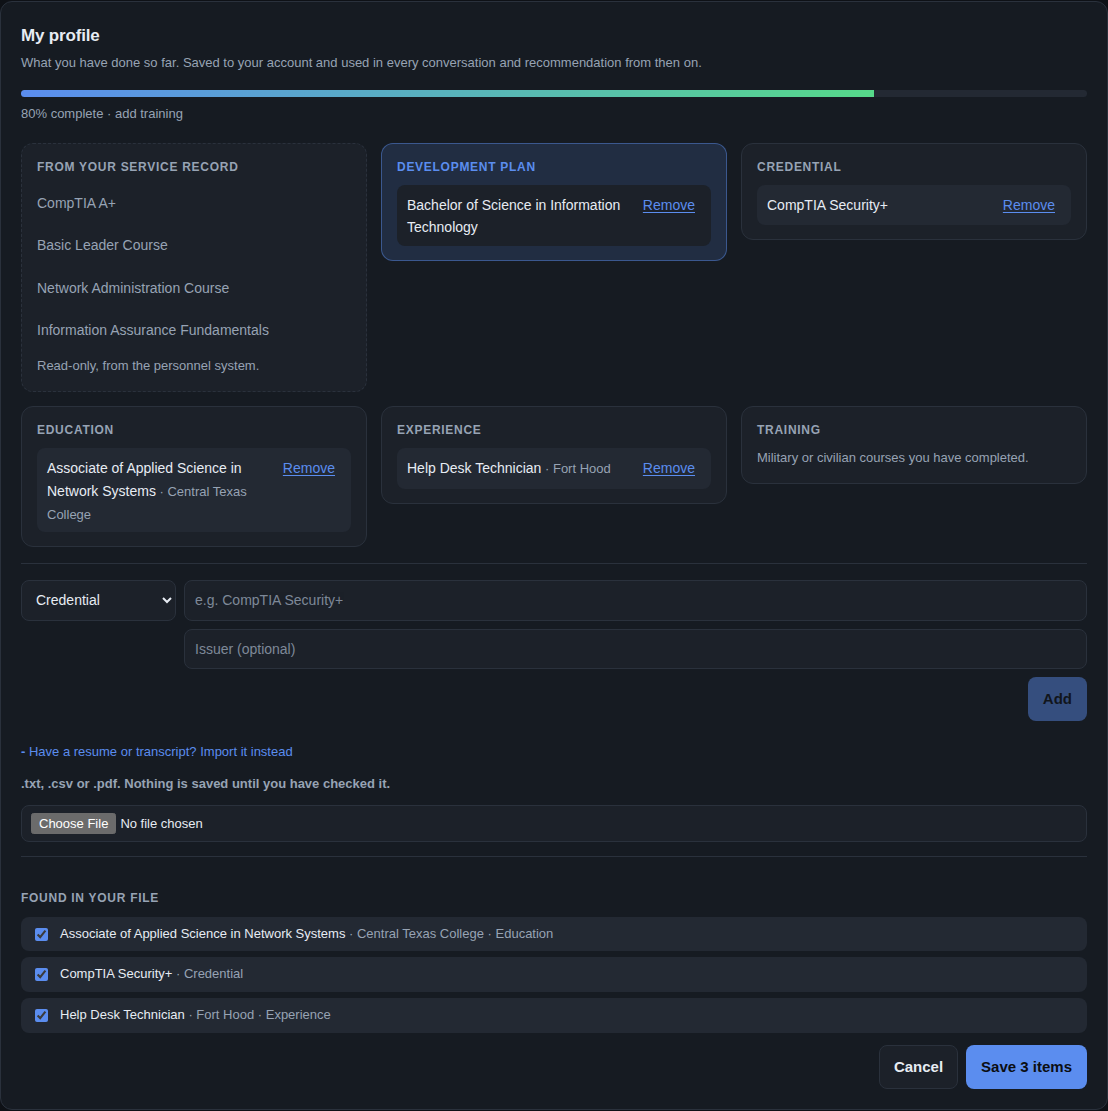
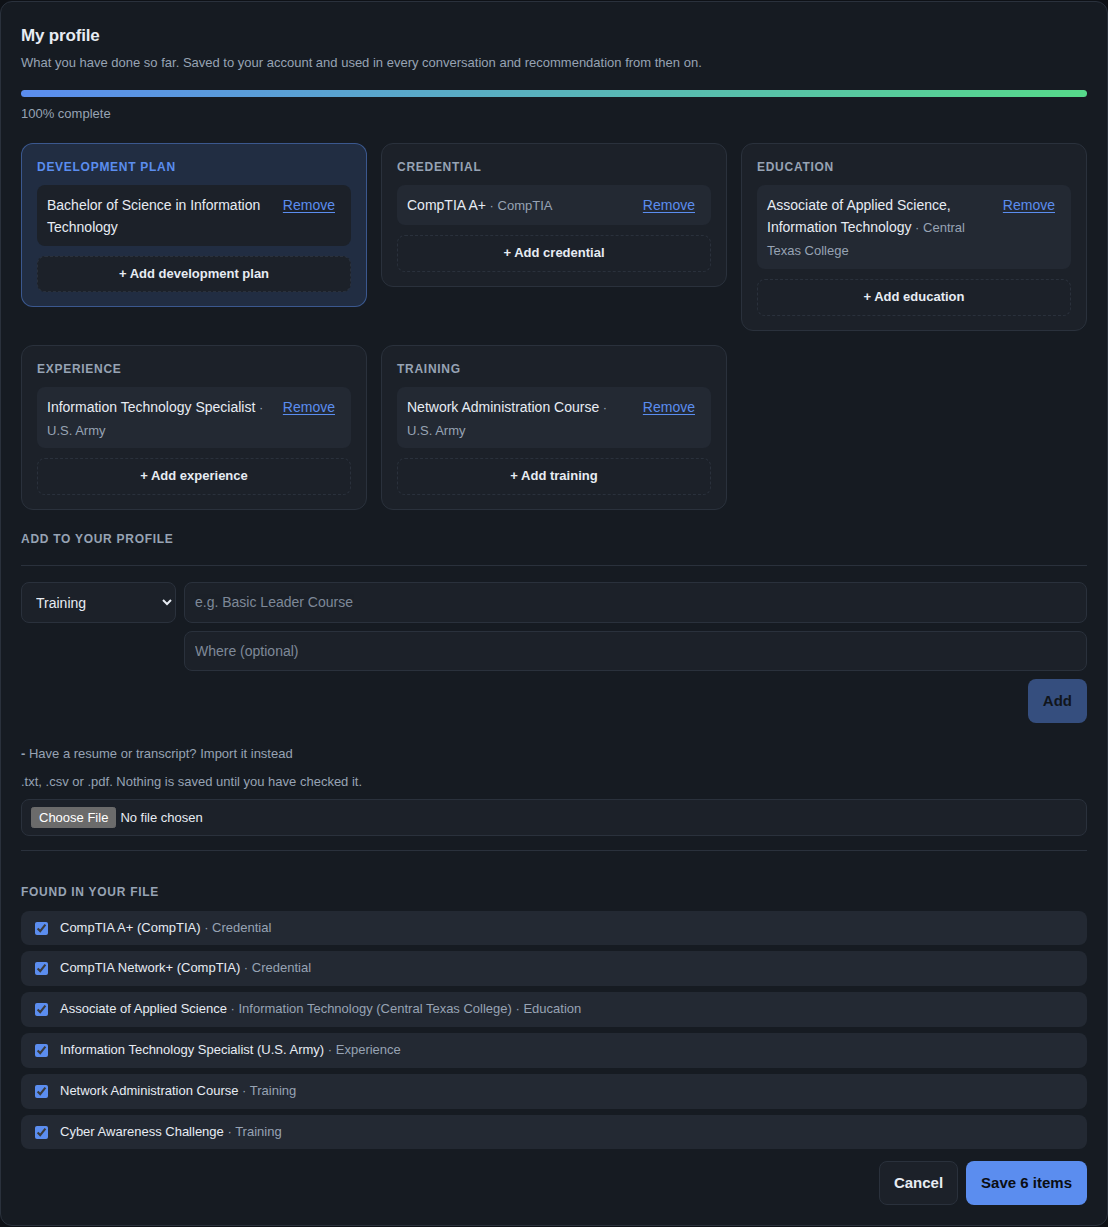
Docs and metrics

diff --git a/docs/USER_GUIDE.md b/docs/USER_GUIDE.md
@@ -68,18 +68,27 @@ a job, a place or funding. It will point you to a counsellor for those.
 
 ### Choosing the AI model
 
-You never need an API key, an account or any setup — the **built-in advisor**
-answers out of the box, using your profile, and costs nothing.
+You never need an API key, an account or any setup, and there is nowhere to
+enter one.
 
-If whoever runs your copy has added Claude or ChatGPT, a **Model** menu
-appears at the top of the chat and you can pick between them. Your choice
-applies to each message, and every answer says which model wrote it. You are
-never asked for a key: there is nowhere to enter one.
+**A real language model, set up for you.** The first time you start the
+platform it looks for [Ollama](https://ollama.com), which runs a language
+model on this computer. If it is missing, it asks once whether to install it;
+if it is installed but not running, it starts it; if the model has never been
+downloaded, it downloads it — about 2 GB, once. Nothing you type leaves the
+machine, and there is no account, key or bill. Answer no and the platform
+starts anyway on the built-in advisor. To skip the question entirely, run
+`python run.py --no-local-model`.
 
-The built-in advisor is deliberately narrow. It handles the questions this
-service is for — what to study or certify next, degree or credential, how to
-describe your background on a resume, what is on your profile. Anything else
-it hands to a counsellor rather than guessing.
+**The built-in advisor** is the fallback, and it needs nothing at all. It is
+deliberately narrow: it handles the questions this service is for — what to
+study or certify next, degree or credential, how to describe your background
+on a resume, what is on your profile — and hands anything else to a counsellor
+rather than guessing.
+
+Whichever is answering, the line under each reply says so. If whoever runs
+your copy has also added Claude or ChatGPT, a **Model** menu appears at the top
+of the chat and you can pick between them per message.
 
 ### My profile
 
@@ -89,9 +98,15 @@ it hands to a counsellor rather than guessing.
 everything the assistant knows about you, so you never have to repeat it in a
 new conversation.
 
-- **From your service record** is what the personnel system holds — military
-  training only. You can't edit it here.
-- Everything else you enter yourself, in four kinds:
+**Your profile starts empty.** Nothing is filled in for you, because a
+record you did not enter and cannot remove is worse than no record at all.
+Three or four entries is enough for the assistant to answer about you rather
+than in general.
+
+- **From your service record** is what the personnel system holds. You can't
+  edit it here, so the card only appears when the personnel system actually
+  sent something.
+- Everything else you enter yourself, in five kinds:
 
   | Kind | What goes in it |
   | --- | --- |
@@ -101,11 +116,12 @@ new conversation.
   | **Experience** | A job or role, military or civilian |
   | **Training** | A course or school the service record missed |
 
-  Choose the kind, type the name, optionally add the issuer, school or
-  employer, and click **Add**. **Remove**, beside every item you added, takes
-  it off again — there is nothing you cannot undo. Only the service record is
-  fixed, because it comes from the personnel system rather than from you.
-  Each kind has its own card, and an empty one says what belongs in it.
+  Each kind has its own card, with a **+ Add** button on it — click the one
+  on the card you want and the form below is already set to that kind, so you
+  type the name, optionally add the issuer, school or employer, and click
+  **Add**. **Remove**, beside every item you added, takes it off again — there
+  is nothing you cannot undo. Only the service record is fixed, because it
+  comes from the personnel system rather than from you.
 - **Have a resume or transcript? Import it instead** is a shortcut if you have
   a long record. Open it, pick a `.txt`, `.csv` or `.pdf`, and everything it
   recognised comes back sorted into those four kinds. Untick anything wrong
@@ -118,6 +134,9 @@ new conversation.
 Changes take effect straight away: the next answer and the recommended next
 steps both use them. You can also just ask the assistant *"what do you have on
 file for me?"* to hear it back.
+
+Ask for advice before you have entered anything and the assistant says so and
+asks for the few entries it needs, rather than inventing a background for you.
 
 ### Your development plan
 

diff --git a/docs/metrics/QUALITY.md b/docs/metrics/QUALITY.md
@@ -27,7 +27,7 @@ push and fails if any function's cyclomatic complexity exceeds 15.
 | Conversation Management | 1 | 188 | 10 | 3.10 | 8 (B) | 59.0 |
 | Customer Data Adapter | 2 | 591 | 37 | 3.86 | 13 (C) | 49.1 |
 | Knowledge Base | 1 | 86 | 7 | 3.29 | 6 (B) | 60.4 |
-| AI Integration | 8 | 951 | 88 | 3.47 | 11 (C) | 67.3 |
+| AI Integration | 9 | 1056 | 98 | 3.41 | 11 (C) | 67.8 |
 | Response Validation | 1 | 80 | 6 | 5.00 | 10 (B) | 64.7 |
 | Escalation | 3 | 246 | 19 | 2.53 | 7 (B) | 75.6 |
 | Feedback | 1 | 81 | 5 | 2.40 | 6 (B) | 66.4 |
@@ -35,12 +35,12 @@ push and fails if any function's cyclomatic complexity exceeds 15.
 | Cache | 1 | 92 | 24 | 1.62 | 4 (A) | 56.9 |
 | Monitoring | 1 | 70 | 9 | 1.89 | 3 (A) | 67.2 |
 | API layer | 11 | 647 | 33 | 2.12 | 6 (B) | 86.0 |
-| Shared (config, schemas, errors, security, data) | 9 | 936 | 109 | 1.49 | 10 (B) | 71.1 |
-| **Total** | 40 | 4129 | 360 | 2.54 | 13 | 71.8 |
+| Shared (config, schemas, errors, security, data) | 9 | 917 | 109 | 1.49 | 10 (B) | 71.2 |
+| **Total** | 41 | 4215 | 370 | 2.55 | 13 | 71.9 |
 
-**Cyclomatic complexity grades, all functions:** A: 328 · B: 29 · C: 3 · D: 0 · E: 0 · F: 0
+**Cyclomatic complexity grades, all functions:** A: 336 · B: 31 · C: 3 · D: 0 · E: 0 · F: 0
 
-**Maintainability index grades, all files:** A: 40 · B: 0 · C: 0
+**Maintainability index grades, all files:** A: 41 · B: 0 · C: 0
 
 **Most complex functions**
 
@@ -79,14 +79,14 @@ My record and the ChatGPT provider arrived: the upload parser (CC 16 and 17)
 and the OpenAI response parser (CC 16) were each split into small named steps
 before merge, with their tests unchanged.
 
-**Remaining C-grade code, and why it is left.** `CustomerContext.to_prompt_facts`
-is one `if` per permitted field — long, but flat and fully covered by tests;
-splitting it would scatter the single list that decides what reaches the model.
-`AIIntegrationService.generate_response` carries the retry loop with its
-budget check; its branches are each pinned by a test. `extract_candidates` is the upload
-reader's main loop — a heading check, a noise check, classification and a
-duplicate check per line — and each branch has a transcript or CSV test.
-`MockAIProvider._personal_reply` picks one of three answer shapes by topic.
+**Remaining C-grade code, and why it is left.** `extract_candidates` is the
+profile reader's main loop — a heading check, a noise check, classification and
+a duplicate check per line — and each branch has a transcript or CSV test.
+`MemberRecordService._validated` is one rule per field of a saved item; it is
+long but flat, and splitting it would scatter the single list that decides what
+a member is allowed to store. `AIIntegrationService.generate_response` carries
+the retry loop with its budget check, which the local model shortens to nothing;
+its branches are each pinned by a test.
 
 ## Static analysis
 
@@ -94,7 +94,7 @@ duplicate check per line — and each branch has a transcript or CSV test.
 | --- | --- | --- |
 | ruff (lint, rules E, F, I, B, UP, C4) | `backend/` | 0 findings |
 | ruff format | `backend/` | 0 files to reformat |
-| mypy (`check_untyped_defs`, `strict_equality`) | `backend/app`, 55 files | 0 errors |
+| mypy (`check_untyped_defs`, `strict_equality`) | `backend/app`, 56 files | 0 errors |
 | ESLint 9, including Allman brace style | `frontend/` | 0 findings |
 | actionlint | `.github/workflows/ci.yml` | 0 findings |
 

diff --git a/docs/adr/0012-a-profile-starts-empty.md b/docs/adr/0012-a-profile-starts-empty.md
@@ -1,0 +1,68 @@
+# 0012 — A profile starts empty
+
+**Status:** Accepted
+**Date:** Final release
+**Deciders:** Ryan Gant, Ravonne Wade, Benjamin Madden
+
+## Context
+
+The seed data gave each demo member a service record already carrying
+completed training and credentials. It made the first screen look populated,
+and it was wrong in three ways at once.
+
+It was unremovable. The personnel feed is read-only by design (ADR 0007), so
+seeded items appeared under **From your service record** with no **Remove**
+beside them, in a panel whose whole promise is that the member controls what
+is on it. The first thing anyone tried was deleting one, and the first thing
+they learned was that they could not.
+
+It was unearned. Every recommendation, every completeness figure and every
+answer about "your background" was computed from a history the person had
+never had. A demonstration of advice grounded in a member's record is not a
+demonstration if the record is invented for them.
+
+And it hid the thing being built. The point of the profile is that it is
+assembled: the recommendations change as it fills, which is only visible if
+it starts out not filled.
+
+## Decision
+
+`_MEMBER_RECORDS` seeds branch, pay grade, specialty, years served and
+separation date — facts about a posting — and seeds no training and no
+credentials. The **From your service record** card is hidden entirely when
+the feed returns nothing, rather than shown empty.
+
+Each kind's card carries its own **+ Add** button, which sets the shared form
+to that kind and focuses it, so adding the first item is one click from the
+card that says the member has none.
+
+The assistant handles the empty case explicitly rather than falling through
+to a general answer: asked for advice with nothing on file, it says it has
+nothing, names the four kinds it needs, and says three or four entries is
+enough. An off-topic question still goes to a counsellor — an empty profile
+is a reason to ask for data, not a reason to answer questions this service
+does not answer.
+
+## Consequences
+
+**What this buys.** Everything on a profile was put there by the member and
+can be taken off by them, with no exception to explain. The recommender's
+behaviour as a record fills is visible from the first screen. The empty state
+is a prompt rather than a dead end.
+
+**What it costs.** A new member sees an empty panel and generic
+recommendations until they enter something, and a demonstration needs a
+minute of typing before it shows anything interesting. Tests that assumed a
+seeded history now set one up explicitly, through the `member_with_history`
+fixture — more setup per test, in exchange for each test stating the record
+it depends on.
+
+## Enforcement
+
+`test_a_seeded_member_carries_no_history` fails if the seed grows training or
+credentials again, and `test_a_new_member_starts_with_an_empty_profile` pins
+the same thing through the API.
+`test_an_empty_profile_is_asked_for_rather_than_guessed_about` pins the
+assistant's empty-profile reply, and
+`test_an_empty_profile_does_not_make_everything_answerable` keeps that reply
+from swallowing questions that belong with a counsellor.

diff --git a/docs/metrics/COVERAGE.md b/docs/metrics/COVERAGE.md
@@ -8,20 +8,20 @@ uploads the full HTML reports as the `backend-coverage` and
 
 | Suite | Tests | Lines | Branches | Floor enforced in CI |
 | --- | ---: | ---: | ---: | --- |
-| Backend — pytest against PostgreSQL 16 | 267 | **94.6%** | **84.0%** | 90% combined (`.coveragerc`) |
+| Backend — pytest against PostgreSQL 16 | 278 | **94.5%** | **83.5%** | 90% combined (`.coveragerc`) |
 | Frontend — Vitest + Testing Library | 43 | **89.7%** | **85.4%** | 80% lines, 75% branches (`vite.config.js`) |
 | End-to-end — `scripts/smoke_test.sh` | 11 steps | — | — | Must pass |
 
-Backend combined line-and-branch coverage is 92.9%.
+Backend combined line-and-branch coverage is 92.8%.
 
 ## Backend, by component
 
 | Component | Lines | Branches |
 | --- | ---: | ---: |
 | Conversation Management | 99.0% | 94.4% |
-| Customer Data Adapter | 93.8% | 87.8% |
+| Customer Data Adapter | 93.9% | 87.8% |
 | Knowledge Base | 91.5% | 80.0% |
-| AI Integration | 95.6% | 86.5% |
+| AI Integration | 95.6% | 85.5% |
 | Response Validation | 96.2% | 90.9% |
 | Escalation | 95.5% | 81.6% |
 | Feedback | 97.2% | 100.0% |
@@ -29,7 +29,7 @@ Backend combined line-and-branch coverage is 92.9%.
 | Cache | 95.2% | 100.0% |
 | Monitoring | 93.6% | 66.7% |
 | API layer | 97.0% | 83.3% |
-| Shared (config, schemas, errors, security, data) | 93.3% | 78.0% |
+| Shared (config, schemas, errors, security, data) | 93.6% | 78.0% |
 
 **Where coverage is thin, and why it matters or does not.** The Learning
 Analytics Worker is lowest: its tests drive the patterns the demo produces, but

diff --git a/docs/adr/0011-a-local-model-is-the-default.md b/docs/adr/0011-a-local-model-is-the-default.md
@@ -34,11 +34,21 @@ Readiness requires the model to be *installed*, not merely the daemon to be
 *up*. A provider offered without its model would 404 every turn, which is a
 worse failure than not being offered.
 
+`run.py` performs the setup rather than printing it. Before the API starts it
+finds Ollama, starts the daemon if it is installed but stopped, and pulls the
+model if it has never been pulled. A default that requires reading two lines
+of output and running a command is not a default; most people would have read
+the fallback paragraph instead and concluded the assistant was a canned
+response generator. Installing software is the one step it asks about first,
+because that is a decision about someone's computer rather than about this
+project — a declined install, a missing network or an unattended run all fall
+back to the built-in advisor and start the platform anyway.
+
 ## Consequences
 
-Someone who clones the repository gets a real language model after one
-install and one `ollama pull`, with no account, no key and no cost, and the
-facts from their service record never leave the machine. Someone who installs
+Someone who clones the repository gets a real language model by answering one
+question, with no account, no key and no cost, and the facts from their
+service record never leave the machine. Someone who installs
 nothing still gets a working platform. Neither path has a credential in it.
 
 CI keeps using `builtin`, which is deterministic and needs no daemon, so the

diff --git a/docs/AI_FEATURES.md b/docs/AI_FEATURES.md
@@ -85,14 +85,16 @@ This is the recommended way to get real answers, and the only one that is
 simultaneously a language model, free, and free of accounts.
 
 [Ollama](https://ollama.com) runs a model locally and exposes an
-OpenAI-compatible endpoint on port 11434. Install it, then:
+OpenAI-compatible endpoint on port 11434.
 
-```bash
-ollama pull llama3.2
-```
+There is nothing to do: `run.py` offers to install Ollama if it is missing,
+starts the daemon if it is stopped, and runs `ollama pull llama3.2` if the
+model has never been pulled, before the API comes up. `--no-local-model` skips
+all of it; `--install-local-model` installs without asking, for an unattended
+setup. Doing it by hand — `ollama pull llama3.2` — works exactly the same,
+because the launcher only does what a person would have done.
 
-That is the entire setup. Start the platform and it finds the daemon by
-itself — `run.py` prints `Assistant: Local model through Ollama` — because
+Either way the platform finds the daemon by itself — `run.py` prints `Assistant: Local model through Ollama` — because
 `AI_PROVIDER=auto` probes `GET /v1/models` on startup and on each turn. Stop
 Ollama and the next turn falls back to the built-in advisor without an error;
 start it again and answers come from the model again, with no restart.

diff --git a/README.md b/README.md
@@ -26,11 +26,13 @@ illustrative content rather than guidance from any agency.
 Requires **Python 3.10+** and **Node 18+**. No database to install, no file to
 edit and no API key to obtain.
 
-For answers from a real language model rather than the built-in advisor,
-install [Ollama](https://ollama.com) and run `ollama pull llama3.2` once. The
-platform finds it on its own. There is still no key and nothing to configure,
-and nothing a member enters leaves the machine. Skip it and everything still
-works — see [ADR 0011](docs/adr/0011-a-local-model-is-the-default.md).
+Answers come from a real language model, and the launcher sets that up for
+you: it looks for [Ollama](https://ollama.com), asks once before installing
+it, starts it if it is already there, and pulls `llama3.2` the first time —
+about 2 GB, once. There is no key, no account and nothing to configure, and
+nothing a member enters leaves the machine. Decline, or pass
+`--no-local-model`, and the built-in advisor answers instead and everything
+still works — see [ADR 0011](docs/adr/0011-a-local-model-is-the-default.md).
 
 ```bash
 git clone https://github.com/ryang18237/CMSC-495.git

diff --git a/docs/INSTALL.md b/docs/INSTALL.md
@@ -56,11 +56,13 @@ and the web client on port 5173, and opens the browser.
 | Git | any recent | `git --version` |
 | Ollama | optional | `ollama --version` |
 
-Ollama is the only optional one. Without it the assistant uses the built-in
-advisor; with it, answers come from a real language model running on this
-machine, with no key and no account. Install from <https://ollama.com>, then
-`ollama pull llama3.2`. `run.py` prints which of the two is in use at
-startup.
+Ollama is the only optional one, and the only one `run.py` will install for
+you: on startup it offers to install Ollama if it is absent, starts the daemon
+if it is present but stopped, and pulls `llama3.2` if it has never been
+pulled. Answer no, or pass `--no-local-model`, and the built-in advisor
+answers instead. `run.py` prints which of the two is in use at startup. To
+install Ollama yourself instead, take it from <https://ollama.com> and run
+`ollama pull llama3.2`.
 
 ### macOS
 

diff --git a/docs/adr/README.md b/docs/adr/README.md
@@ -33,3 +33,4 @@ deleting it hides the reasoning.
 | [0009](0009-usable-without-a-key.md) | The platform is fully usable with no API key | Accepted |
 | [0010](0010-a-plan-is-not-a-record.md) | A development plan is a separate kind, not a flag | Accepted |
 | [0011](0011-a-local-model-is-the-default.md) | A local model is the default, not a hosted one | Accepted |
+| [0012](0012-a-profile-starts-empty.md) | A profile starts empty | Accepted |
